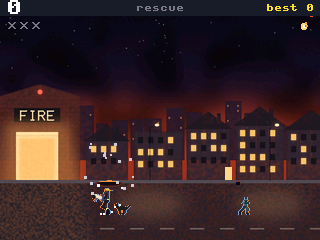
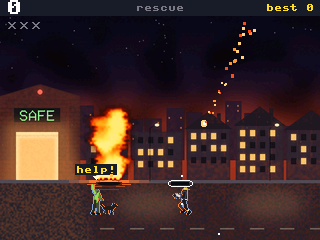
P800: the README's Rescue pictures from the middle of a round: the shot (frame 112) has a fire, a meteor coming over its target ring, a trapped person waving under "help!" and the fireman carrying; the GIF runs frames 60 to 214, every 3rd: the carried person lost to a meteor in a puff of smoke, the 

diff --git a/tools/render_scene.py b/tools/render_scene.py
@@ -93,7 +93,7 @@ SUBJECTS = {  # the fire, the rain, app.GAMES in their order, the overlay; the p
     "burningbodies": Subject(BurningBodies, "tap: next mode", 20, 100),
     "bucket": Subject(Bucket, Bucket.hint, 90, 222, every=6, hold=20, seed=5, shot=216),
     "meteors": Subject(Meteors, Meteors.hint, 90, 200, every=3, tap=17, seed=18, shot=148),
-    "rescue": Subject(Rescue, Rescue.hint, 2, 140, presses=((0, 1), (16, 1), (59, 29)), shot=100),
+    "rescue": Subject(Rescue, Rescue.hint, 60, 214, every=3, presses=((0, 1), (145, 32)), shot=112),
     "flappy": Subject(Flappy, Flappy.hint, 5, 70, every=3, tap=12, shot=60),
     "runner": Subject(Runner, Runner.hint, 10, 75, every=3, hold=40),
     "snake": Subject(Snake, Snake.hint, 5, 80, tap=20, shot=45),
